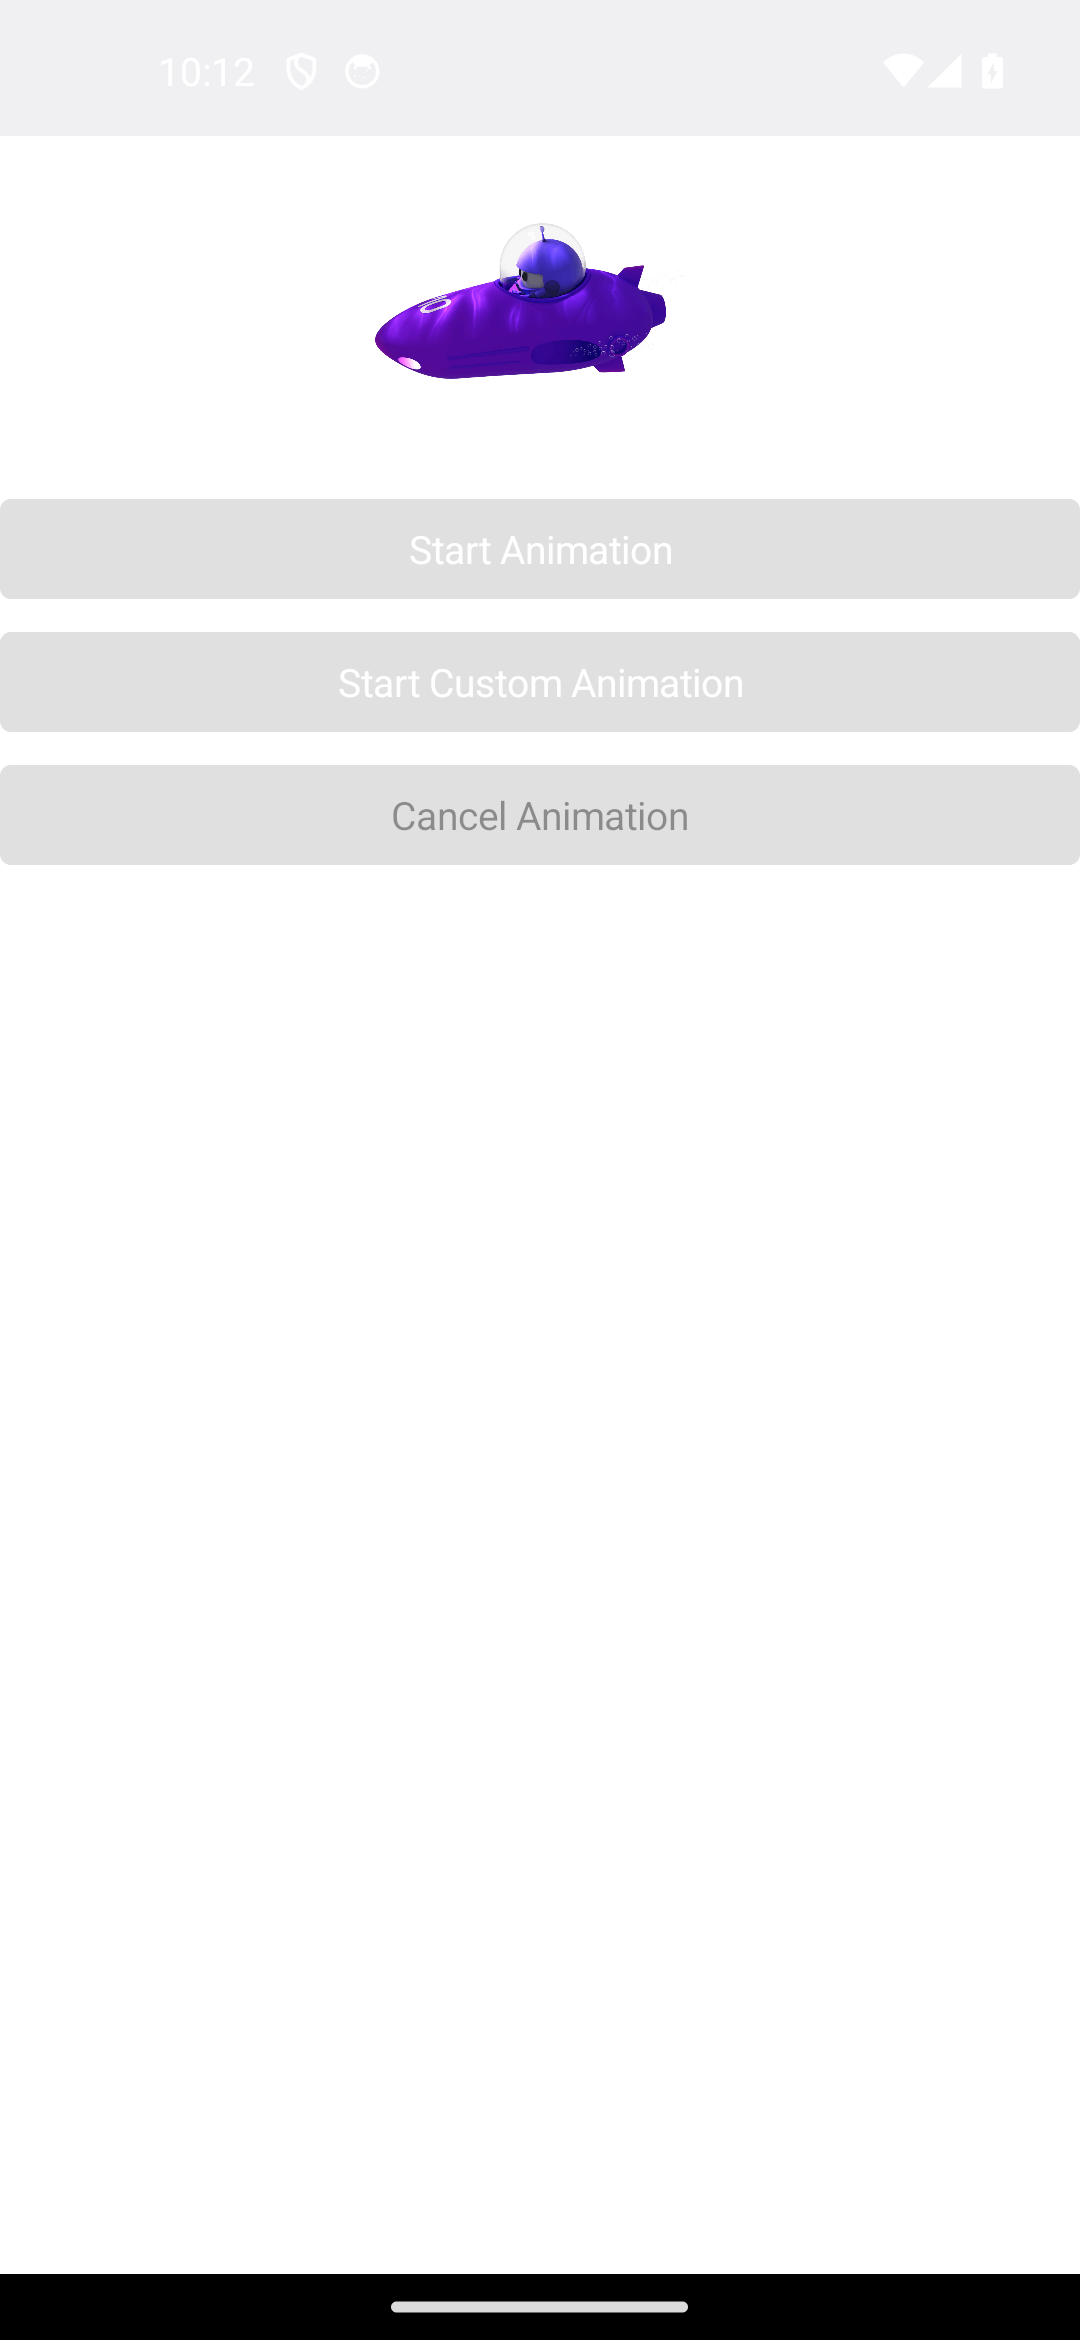
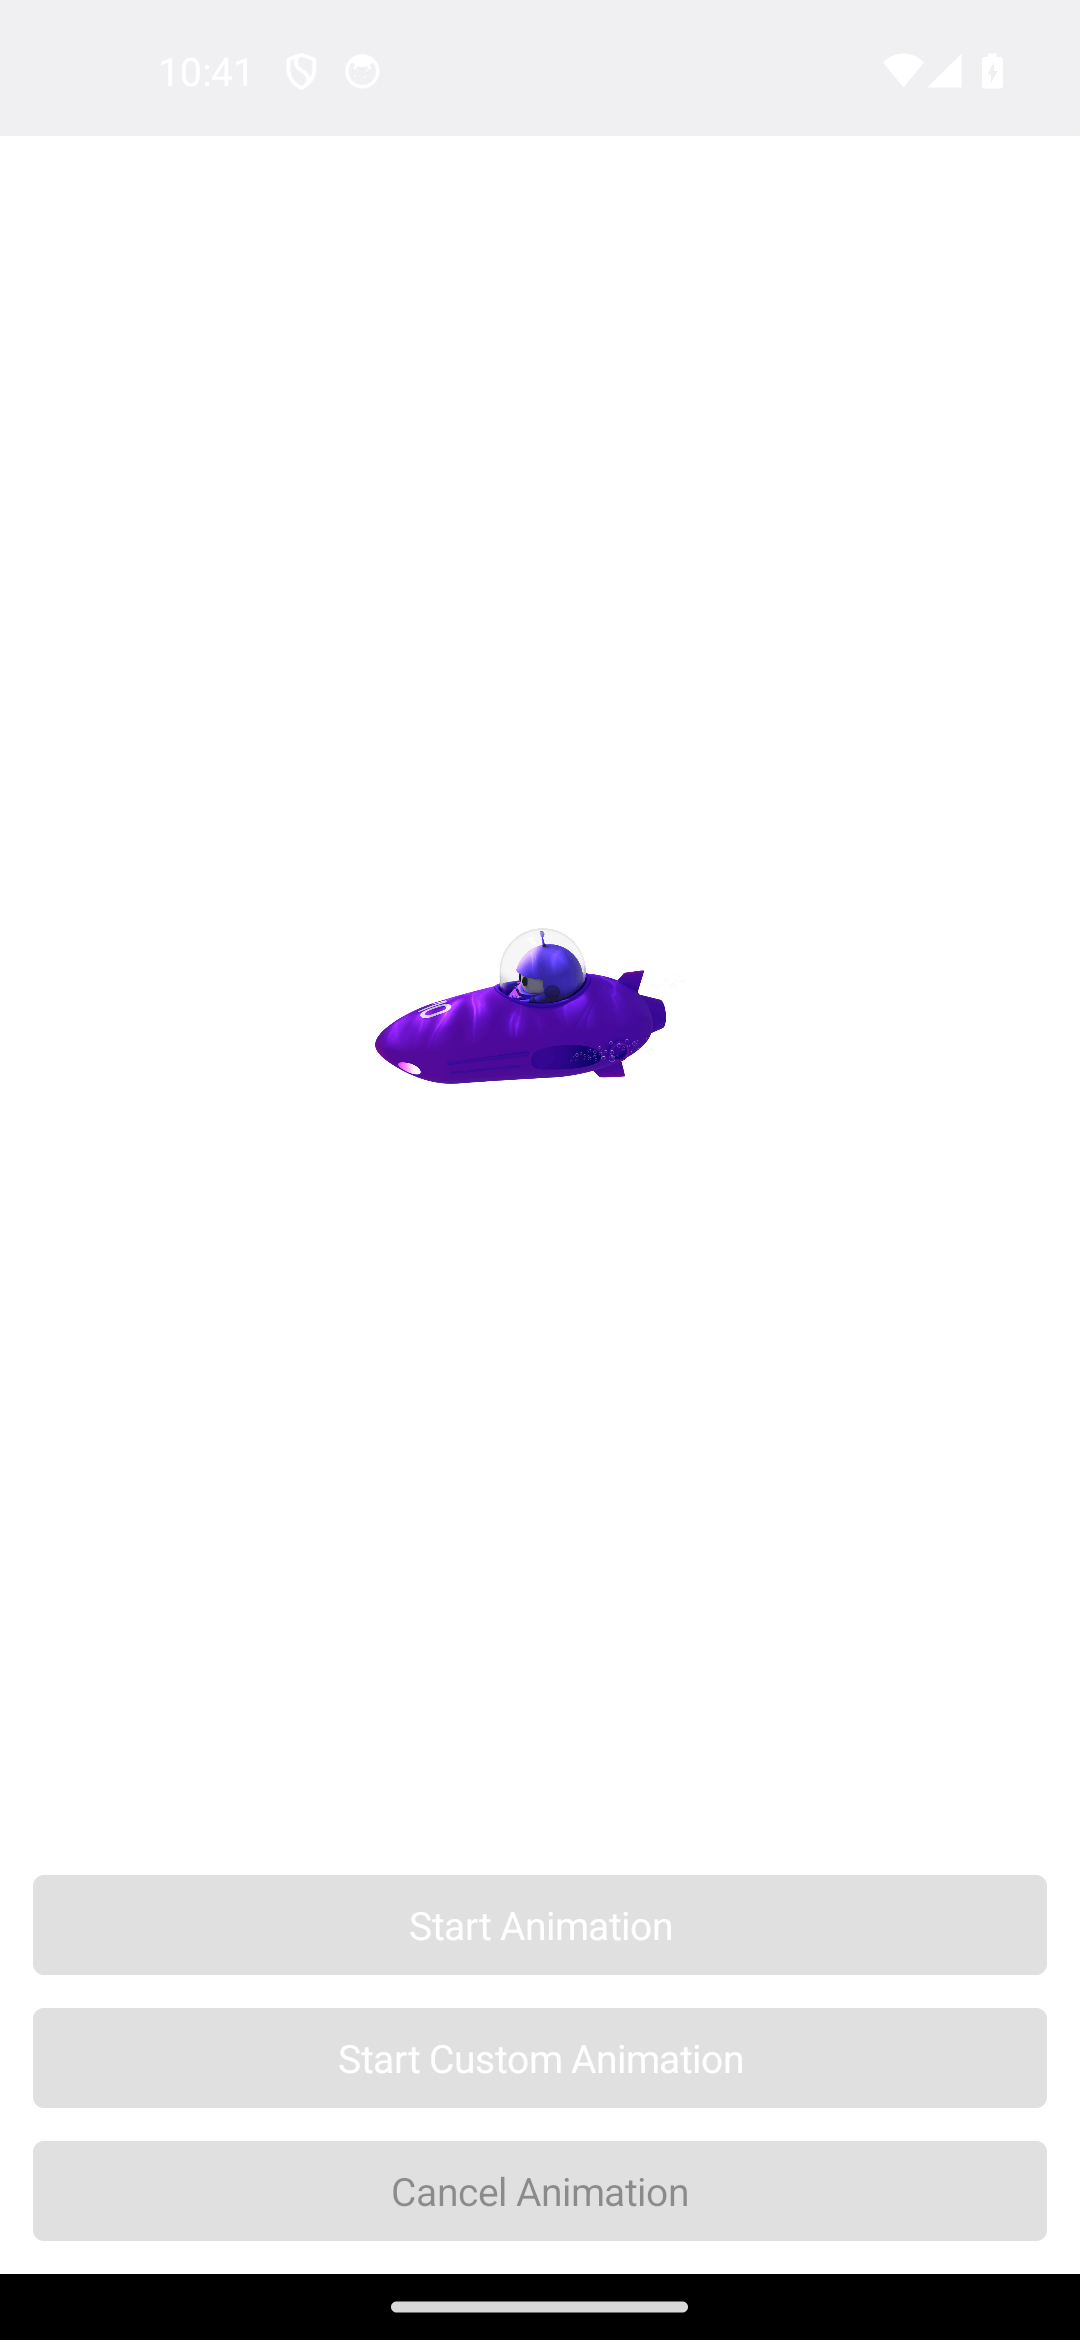
fix(animation): code-first page uses a Grid to reproduce CenterAndExpand + Margin
MAUI's AnimationPage.xaml is a StackLayout(Margin=12, Spacing=12) whose <Image VerticalOptions=
CenterAndExpand> takes all leftover vertical space (centered) and pushes the 3 buttons to the BOTTOM.
The port's vertical_stack_layout has no Expands surface, so the code-first page stacked the image at
the top with buttons directly beneath (~800px off, 28% diff). Restructured to a Grid with a '*' row
(centered image) + three 'Auto' rows (buttons) + Margin=12 (which was also missing — MAUI's 12dp bottom
margin lifts the buttons 33px off the screen edge). Android animation 28% -> GREEN (SSIM 1.0000).
Ruling 12: the code-first render is the reference of record for what the shared-XAML dialect can't
express (the xaml column still needs the AndExpandLayoutManager engine feature). Cross-platform page
change — iOS/macOS animation cpp (currently yellow) to be re-verified.

Changed region(s): [[0.0, 0.0936, 1.0, 0.3744], [0.0306, 0.7799, 0.9778, 0.9671], [0.3361, 0.4056, 0.6111, 0.4679]]

diff --git a/port/cpp/examples/gallery/pages/animation_page.hpp b/port/cpp/examples/gallery/pages/animation_page.hpp
@@ -31,10 +31,12 @@
 #include "maui/controls/button.hpp"
 #include "maui/controls/content_page.hpp"
 #include "maui/controls/file_image_source.hpp"
+#include "maui/controls/grid.hpp"
 #include "maui/controls/image.hpp"
-#include "maui/controls/vertical_stack_layout.hpp"
 #include "maui/controls/view_extensions.hpp"
+#include "maui/core/grid_length.hpp"
 #include "maui/core/layout_alignment.hpp"
+#include "maui/core/thickness.hpp"
 
 namespace maui::samples
 {
@@ -44,7 +46,18 @@ namespace maui::samples
         animation_page()
         {
             page_.set_title("Animations");
-            stack_.set_spacing(12);
+            // C# AnimationPage.xaml is a StackLayout whose <Image VerticalOptions="CenterAndExpand"> takes all
+            // leftover vertical space (centered) and pushes the three buttons to the BOTTOM. The port's
+            // vertical_stack_layout has no Expands surface, so the code-first page uses a Grid instead — a `*`
+            // row centers the image and three `Auto` rows stack the buttons at the bottom, reproducing MAUI's
+            // rendered layout (ruling 12: the code-first render is the reference of record for what the shared
+            // XAML dialect can't express).
+            grid_.add_row_definition(maui::core::grid_length::star());
+            grid_.add_row_definition(maui::core::grid_length::automatic());
+            grid_.add_row_definition(maui::core::grid_length::automatic());
+            grid_.add_row_definition(maui::core::grid_length::automatic());
+            grid_.set_row_spacing(12);
+            grid_.set_margin(maui::core::thickness(12)); // the shared XAML's <StackLayout Margin="12">
 
             // The animation target — the C# <Image Source="dotnet_bot.png" VerticalOptions="CenterAndExpand">
             // (AnimationPage.xaml). An image is a view<…>, so fade/scale/rotate/translate + cancel apply to
@@ -65,11 +78,14 @@ namespace maui::samples
             cancel_button_.set_is_enabled(false); // C# IsEnabled="false" at rest
             cancel_button_.clicked.connect([this] { on_cancel_animation(); });
 
-            stack_.add(target_);
-            stack_.add(start_button_);
-            stack_.add(custom_button_);
-            stack_.add(cancel_button_);
-            page_.set_content(stack_);
+            grid_.add(target_); // row 0 (the `*` row) — centered image, expands like CenterAndExpand
+            grid_.add(start_button_);
+            grid_.set_row(start_button_, 1);
+            grid_.add(custom_button_);
+            grid_.set_row(custom_button_, 2);
+            grid_.add(cancel_button_);
+            grid_.set_row(cancel_button_, 3);
+            page_.set_content(grid_);
         }
 
         [[nodiscard]] maui::controls::content_page& page()
@@ -168,7 +184,7 @@ namespace maui::samples
         }
 
         maui::controls::content_page page_;
-        maui::controls::vertical_stack_layout stack_;
+        maui::controls::grid grid_;
         maui::controls::image target_;
         maui::controls::button start_button_;
         maui::controls::button custom_button_;

diff --git a/port/cpp/docs/comparison/README.md b/port/cpp/docs/comparison/README.md
@@ -9333,9 +9333,9 @@ Real .NET MAUI vs the C++ port vs the compile-time-XAML gallery, captured on the
 
 | Classification | Sonnet 5 — C++ (C1/C3) | Sonnet 5 — C++ &amp; XAML (C2/C4) | Gemini — C++ | Pixel-Perfect Score — C++ (C1/C3) | Pixel-Perfect Score — C++ &amp; XAML (C2/C4) |
 | --- | --- | --- | --- | --- | --- |
-| 🟢 Match | 162 | 0 | 0 | 114 | 110 |
+| 🟢 Match | 162 | 0 | 0 | 115 | 110 |
 | 🟡 Minor | 9 | 0 | 0 | 48 | 46 |
-| 🔴 Major | 1 | 0 | 0 | 10 | 16 |
+| 🔴 Major | 1 | 0 | 0 | 9 | 16 |
 | ⬛ Blank | 0 | 0 | 0 | 0 | 0 |
 | ⏳ Unreviewed | 0 | 172 | 172 | 0 | 0 |
 
@@ -9493,9 +9493,9 @@ _Not yet reviewed._
 
 _Not yet reviewed._
 
-#### 🔴 Pixel-Perfect Score — C++ (C1/C3)
+#### 🟢 Pixel-Perfect Score — C++ (C1/C3)
 
-Light: SSIM 0.9162, 27.98% pixels differ
+Light: SSIM 1.0000, 0.00% pixels differ
 
 #### 🔴 Pixel-Perfect Score — C++ &amp; XAML (C2/C4)
 
